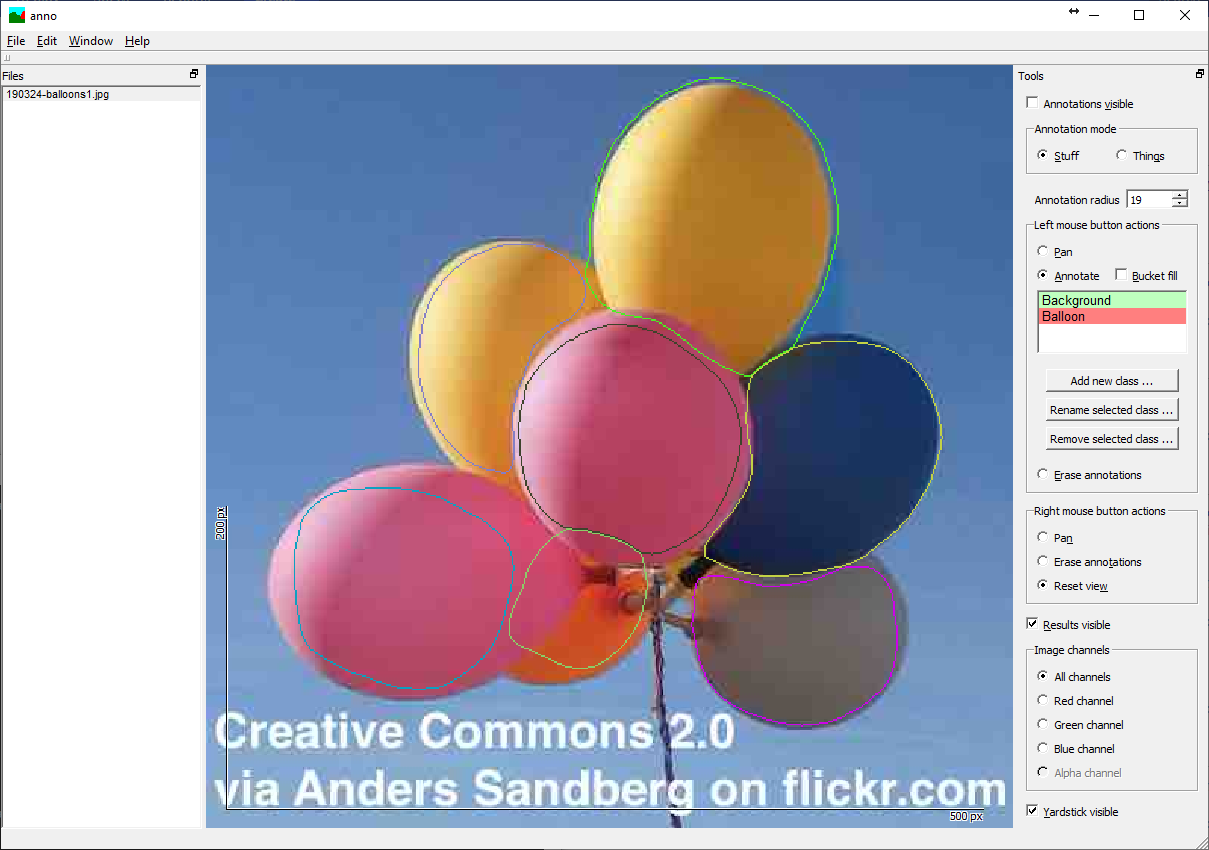
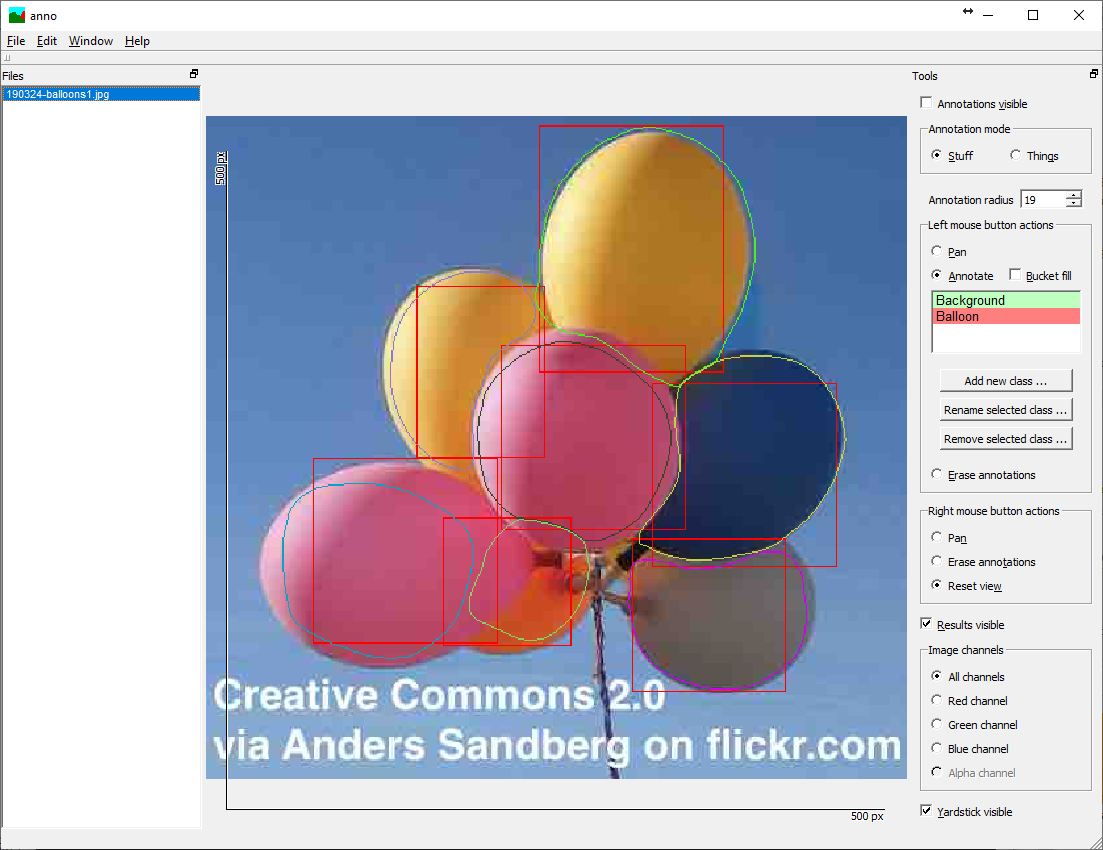
Update examples so that the instance-segmentation results are appended to the object-detection results (previously the object-detection results were overwritten by the instance-segmentation results)

diff --git a/README.md b/README.md
@@ -18,7 +18,7 @@ Train and apply instance-segmentation neural networks based on annotations gener
    `annonet_infer_cuda <path-to-images>`
 4. Use [this program](https://github.com/reunanen/convert-result-images-to-anno-paths) to convert the produced result mask image files to
    json paths that Anno can readily display:\
-   `convert-result-images-to-anno-paths <path-to-images>`
+   `convert-result-images-to-anno-paths <path-to-images> --append`
 5. Look at the inference results in Anno:\
    ![Example of eventual inference results](example-images/creatures/creatures-3.jpg)
    
